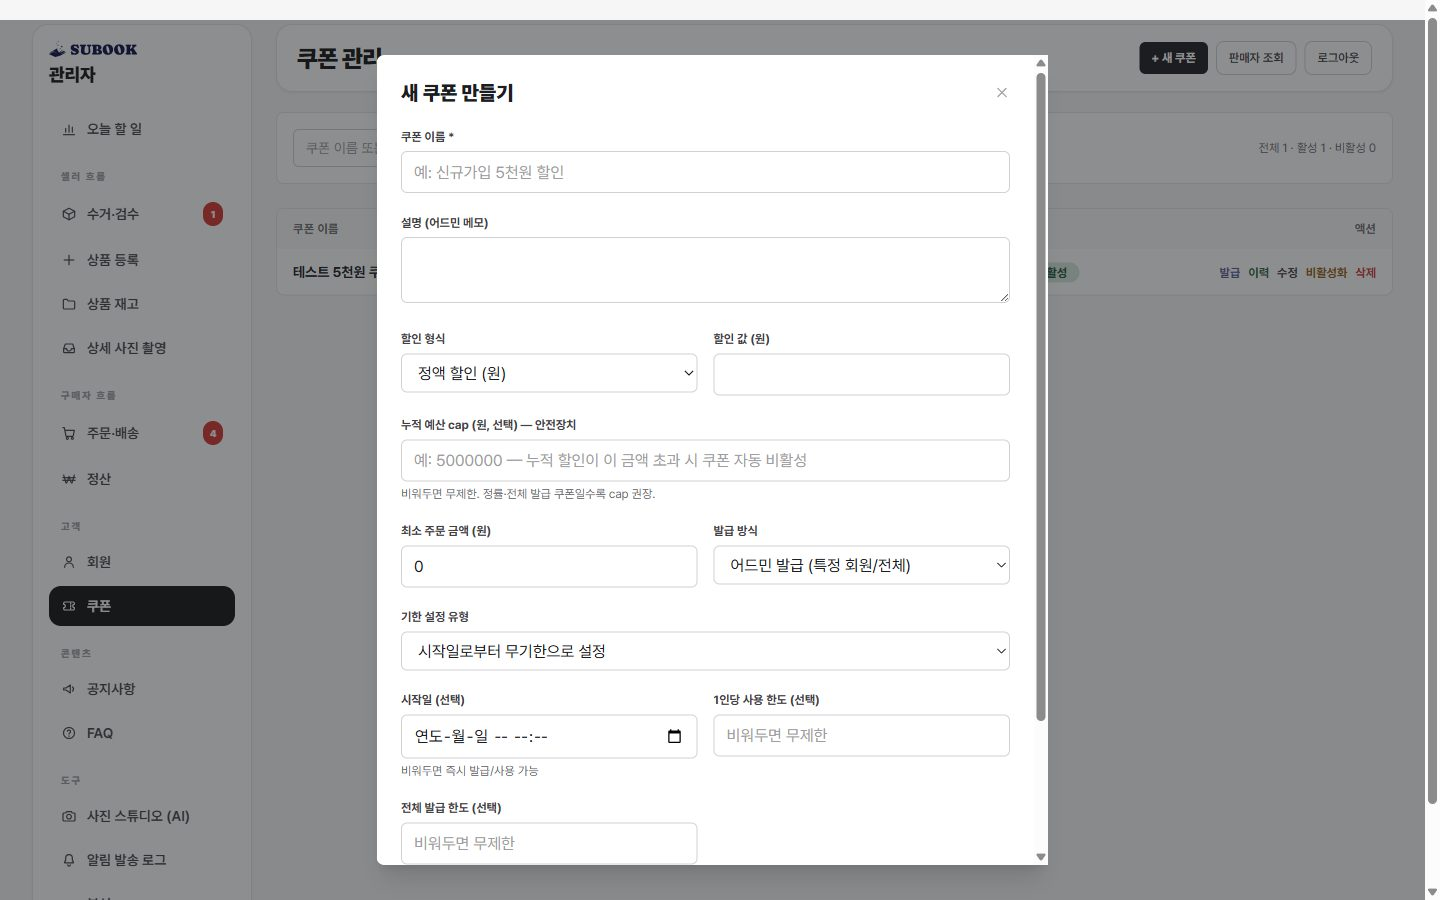
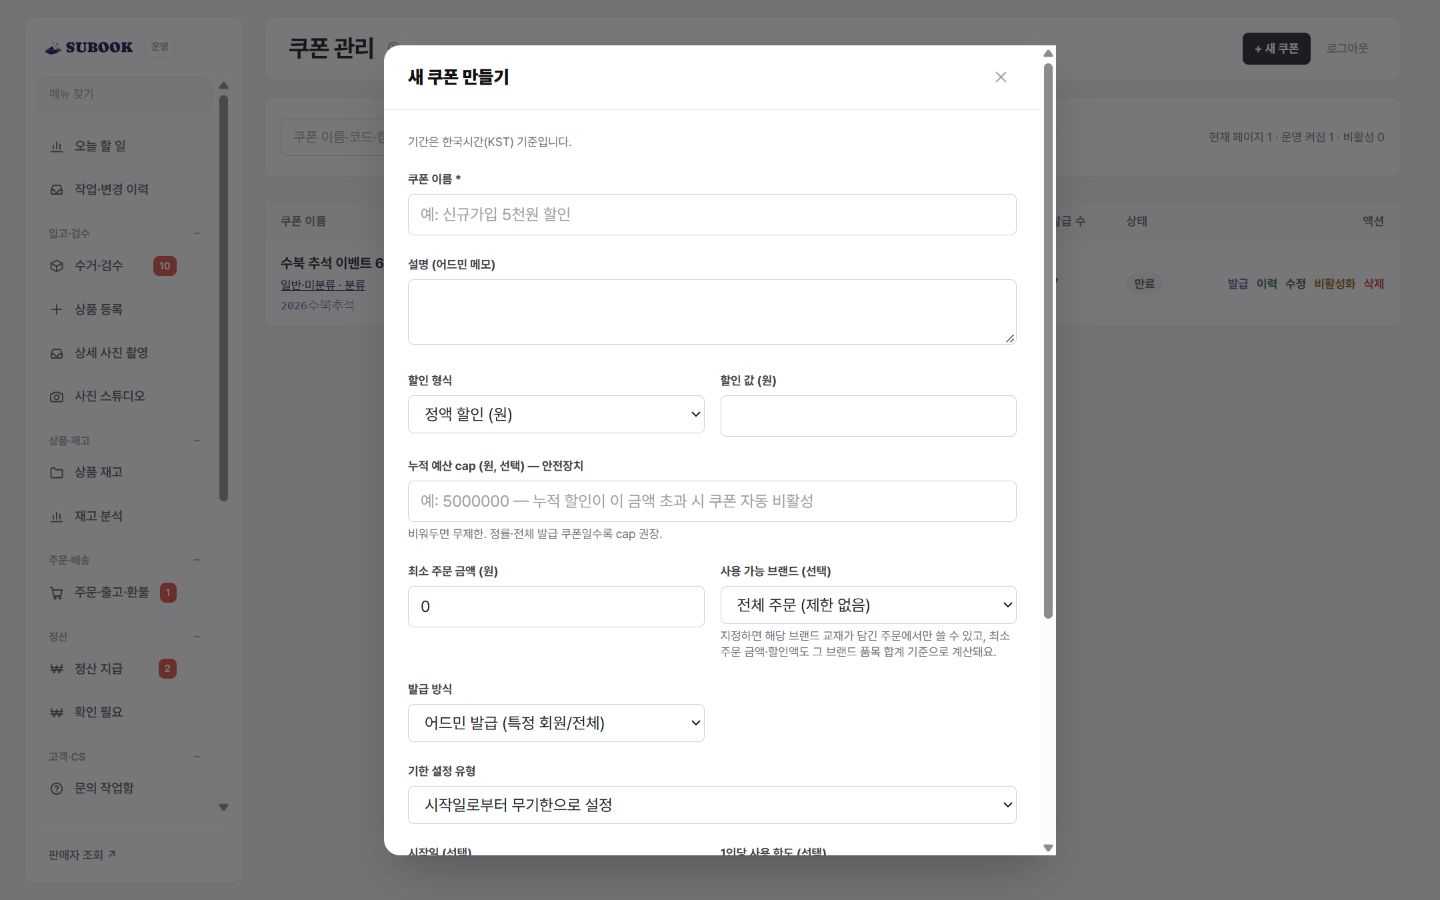
docs: 어드민 개편 가이드와 검증 기록 갱신

diff --git a/apps/admin-web/src/lib/adminGuides.js b/apps/admin-web/src/lib/adminGuides.js
@@ -1,5 +1,5 @@
 // 탭별 사용 가이드 콘텐츠 — AdminShell의 ? 버튼이 이 레지스트리를 모듈 키로 조회한다.
-// 스크린샷은 2026-07-28 실제 어드민 화면 캡처 (src/assets/guide/*.jpg).
+// 스크린샷은 실제 어드민 화면 캡처 (2026-10-06 개편 화면 갱신 포함).
 // 화면이 크게 바뀌면 스크린샷도 갈아끼울 것 (파일명 유지하면 코드는 무변경).
 import imgOverview from "../assets/guide/overview.jpg";
 import imgPickups from "../assets/guide/pickups.jpg";
@@ -17,6 +17,12 @@ import imgNotificationLogs from "../assets/guide/notification-logs.jpg";
 import imgAnalytics from "../assets/guide/analytics.jpg";
 
 export const adminGuides = {
+  cs: { title: "문의 작업함", intro: "문의마다 담당자·상태·기한과 응대 내용을 기록합니다.", sections: [{ heading: "문의 접수", body: ["주문이나 수거 상세의 문의 기록을 누르면 해당 ID가 연결된 새 문의를 만들 수 있습니다.", "완료된 문의는 상태를 완료로 변경합니다. 다른 운영자가 먼저 저장한 경우 새로 조회한 뒤 수정하세요."] }] },
+  "work-history": { title: "작업·변경 이력", intro: "대량 작업 결과와 객체별 변경 항목을 확인합니다.", sections: [{ heading: "작업 결과", body: ["사진 변환·CJ 송장·CSV 송장 작업의 대상과 실패 사유가 보존됩니다.", "진행 중 상태가 오래 유지되면 실제 대상 상태를 먼저 확인하세요. 송장은 기존 주문 상세에서 재출력합니다.", "변경 이력은 기존 교재·상품 이력과 개편 후 주문·수거·쿠폰·공지·FAQ·문의의 변경 항목을 합쳐 보여줍니다."] }] },
+  "inventory-insights": { title: "재고 분석", intro: "오래된 가용 재고와 판매 속도를 확인합니다.", sections: [{ heading: "집계 기준", body: ["입고 등록일부터 30·90·180일 이상 지난 교재를 조회합니다. 주문 배정·재판매 보류 교재는 제외합니다.", "재고 금액은 현재 판매가 합계입니다. 최근 30일 판매가 없는 교재는 가격·사진·노출을 검토하세요."] }] },
+  "settlement-exceptions": { title: "기지급 환불 확인", intro: "지급 완료한 원장과 이후 환불 신청·처리 내역을 연결합니다.", sections: [{ heading: "확인 방법", body: ["관련 주문을 열어 실제 환불·회수 상태를 확인하고 문의 기록에 대응 내용을 남깁니다.", "이 목록은 확인용입니다. 원장 금액이나 지급 상태를 자동으로 차감·변경하지 않습니다."] }] },
+  "home-editor": { title: "홈 편집", intro: "홈에 저장된 테마·추천 교재·배너·팝업 구성을 함께 확인합니다.", sections: [{ heading: "미리보기와 편집", body: ["모바일/PC와 한국시간을 선택해 해당 시각의 노출 구성을 봅니다.", "상단의 테마관·추천 교재·배너·팝업 탭에서 기존 방식으로 편집합니다.", "상태 확인 목록의 교재와 동시에 노출되는 팝업을 검토하세요. 실제 고객 화면의 방문·구매 지표에는 영향을 주지 않는 구성 미리보기입니다."] }] },
+  "event-subscriptions": { title: "행사 신청", intro: "행사를 선택해 신청 명단을 조회하고 추출합니다.", sections: [{ heading: "명단 범위", body: ["실제 신청이 존재하는 행사 키가 선택 목록에 나타납니다.", "CSV에는 현재 조회한 명단만 포함되며 전체 수보다 적게 불러온 경우 화면에 범위를 표시합니다. 발송은 별도입니다."] }] },
   'meta-ads': {
     title: '메타 광고 운영',
     intro: 'Meta 광고의 성과를 보면서 예산·대상·소재를 관리합니다.',
@@ -33,7 +39,7 @@ export const adminGuides = {
     intro: "실제 결제 실적과 방문·광고 성과를 함께 확인합니다.",
     sections: [
       { heading: "기간 선택", body: ["기본은 오늘을 포함한 최근 7일입니다. 날짜를 직접 지정하거나 일별 상세의 날짜를 눌러 하루 성과를 볼 수 있습니다.", "각 카드의 증감은 직전 동일 길이 기간과 비교합니다. 오늘을 포함하면 집계 중인 오늘과 이전 날짜의 하루 전체를 비교합니다."] },
-      { heading: "숫자의 기준", body: ["매출과 주문은 실제 결제가 확인된 주문 DB 기준입니다. 순매출은 그 결제분의 현재 누적 환불액을 차감합니다.", "GA4는 무통장 주문을 입금 전에 구매로 기록합니다. 방문·퍼널 지표와 실제 결제 실적은 다를 수 있습니다.", "Meta 기여 실적과 주문 DB에서 확인된 Meta 유입은 귀속 기준이 다릅니다. 유입 보존은 2026-09-12부터 시작했습니다."] },
+      { heading: "숫자의 기준", body: ["매출과 주문은 실제 결제가 확인된 주문 DB 기준입니다. 순매출은 그 결제분의 현재 누적 환불액을 차감합니다.", "GA4 구매는 결제 확인 시점에 서버 큐로 전송합니다. 입금 전 주문은 구매 실적에 포함하지 않으며, 광고 차단·동의·전송 지연 때문에 방문·퍼널과 DB 실적에는 차이가 날 수 있습니다.", "Meta 기여 실적과 주문 DB에서 확인된 Meta 유입은 귀속 기준이 다릅니다. 유입 보존은 2026-09-12부터 시작했습니다."] },
       { heading: "광고와 연결 상태", body: ["캠페인 이름을 누르면 광고세트, 광고세트 이름을 누르면 개별 광고를 볼 수 있습니다.", "연동이 준비되지 않았거나 분모가 0인 지표는 —로 표시됩니다. 외부 지표는 최대 15분 캐시하며 각 출처의 데이터 처리 지연이 있을 수 있습니다."] },
       { heading: "엑셀 다운로드", body: ["기간 조회 후 상단의 엑셀 다운로드를 누르면 성과 요약·일별 상세·수수료 산출·구매 흐름·Meta 광고·집계 기준을 6개 시트로 내려받습니다.", "일별 상세는 조회 기간 전체를 포함하고, 광고 상세는 현재 선택한 캠페인·광고세트 범위를 따릅니다. 조회하지 못한 지표는 빈칸으로 남으며 집계 기준 시트에 조회 상태를 기록합니다."] },
     ],
@@ -41,24 +47,24 @@ export const adminGuides = {
   overview: {
     title: "오늘 할 일",
     intro:
-      "관리자에 로그인하면 처음 보이는 홈 화면이에요. 오늘 처리해야 할 일이 무엇인지 한눈에 보여주는 허브라서, 매일 아침 이 화면의 빨간 표시부터 확인하면 됩니다.",
+      "관리자에 로그인하면 처음 보이는 홈 화면이에요. 오늘 처리해야 할 일이 무엇인지 한눈에 보여주는 허브라서, 미처리 환불과 오래 기다리는 업무부터 확인하면 됩니다.",
     sections: [
       {
         heading: "업무 단계 카드 확인",
         body: [
           "가운데 줄의 카드들은 수북의 하루 업무 흐름 순서예요: 입금확인 → 발송 처리 → 수거 신청 → 검수·등록 → 정산 지급.",
-          "처리할 건이 있는 카드는 빨간 테두리와 'N건 대기'로 표시돼요. 카드를 클릭하면 해당 작업 화면으로 바로 이동합니다.",
+          "각 카드에는 처리 단위와 건수가 표시됩니다. 카드를 클릭하면 해당 작업 화면으로 바로 이동합니다.",
           "왼쪽 메뉴의 빨간 숫자 배지도 같은 의미예요 (예: 주문·배송 4 = 처리 대기 4건).",
         ],
         image: imgOverview,
-        imageCaption: "발송 처리 4건·수거 신청 1건이 대기 중인 상태의 홈 화면",
+        imageCaption: "개편된 오늘 할 일 화면",
       },
       {
-        heading: "지금 처리할 수거 건",
+        heading: "먼저 확인할 업무",
         body: [
-          "아래 목록에는 당장 액션이 필요한 수거 신청이 떠요. 비어 있으면 수거 쪽은 처리할 일이 없다는 뜻입니다.",
+          "환불 신청, 지연 출고·수거·검수, 미등록 계좌, 최근 알림 실패, 문의 기한을 확인합니다. 목록이 비어 있어도 위 단계 카드의 전체 대기 건수를 함께 확인하세요.",
         ],
-        tips: ["헤더에 '알림 발송 실패 N건' 노란 경고가 뜨면 꼭 눌러서 확인하세요 — 고객에게 알림톡이 안 나간 거예요."],
+        tips: ["건수 갱신 실패는 0건과 다릅니다. 오류가 표시되면 다시 조회를 눌러 확인하세요."],
       },
     ],
   },
@@ -95,7 +101,7 @@ export const adminGuides = {
   register: {
     title: "상품 등록",
     intro:
-      "검수 끝난 책을 판매 상품으로 만드는 4단계 마법사예요: 고객 선택 → 교재 목록 → 사진 → 등록. 위에서부터 순서대로 채우면 됩니다.",
+      "고객 선택 → 교재 목록 → 사진·등록 순서로 검수한 책을 판매 상품으로 만듭니다. 초안은 수거 건별로 저장되며 다른 창에서 같은 초안을 수정하면 충돌을 알려줍니다.",
     sections: [
       {
         heading: "고객(셀러) 선택",
@@ -111,7 +117,7 @@ export const adminGuides = {
           "교재명을 입력하면 기존 교재 DB에서 자동완성돼요. 새 교재면 상품명에서 브랜드·과목 등을 자동으로 파싱합니다.",
           "기존 교재 선택 후 교재명 옆 '이름 수정'에서 이름을 고칠 수 있습니다. '이름 저장'을 누르면 해당 상품과 연결된 모든 교재에 즉시 반영됩니다.",
           "같은 교재 여러 권이면 권수만큼 등록돼요 (1권 = 재고 1개). 일련번호는 시작 번호부터 순차 배정되고, 보관 위치도 함께 기록합니다.",
-          "표지 사진을 올리면 AI가 깔끔한 상품 컷으로 자동 변환해줘요. 마지막 단계에서 '등록'을 누르면 상품이 만들어집니다.",
+          "사진 단계에서 표지를 확인하고 필요한 사진만 AI 변환을 실행합니다. 최종 등록을 누르면 상품과 권 단위 재고가 반영됩니다.",
         ],
         tips: ["할인은 정가(원가) 기준으로 계산돼요 — 정가/정액/정률 중 선택."],
       },
@@ -338,13 +344,13 @@ export const adminGuides = {
 
   reviews: {
     title: "후기 관리",
-    intro: "구매확정 회원이 남긴 통합 후기를 관리하는 화면이에요. 후기는 주문 1건당 1개이며 subook.kr 모든 상품 상세에 공통으로 보여요.",
+    intro: "배송완료 이후 회원이 남긴 통합 후기를 관리하는 화면이에요. 후기는 주문 1건당 1개이며 subook.kr 모든 상품 상세에 공통으로 보여요.",
     sections: [
       {
         heading: "숨기기와 해제",
         body: [
           "욕설·비방, 개인정보 노출, 광고성 후기는 '숨기기'로 사이트에서 즉시 내릴 수 있어요. 사유를 남기면 카드에 기록됩니다.",
-          "숨긴 후기는 '숨김' 필터에서 다시 볼 수 있고, 언제든 해제할 수 있어요. 수정·삭제는 작성자 본인만 마이페이지에서 할 수 있습니다.",
+          "숨긴 후기는 '숨김' 필터에서 다시 볼 수 있고, 언제든 해제할 수 있어요. 작성 완료 후에는 회원이 수정·삭제할 수 없습니다.",
           "닉네임은 사이트에서는 마스킹(앞 2글자)되어 보이지만, 이 화면에서는 닉네임·이름·이메일이 그대로 보여요.",
         ],
       },
@@ -386,16 +392,16 @@ export const adminGuides = {
   },
 
   analytics: {
-    title: "분석",
-    intro: "매출·주문·회원 추이를 보는 통계 화면이에요.",
+    title: "운영 분석",
+    intro: "주문·검수·상품·셀러의 운영 지표를 봅니다.",
     sections: [
       {
         heading: "차트 읽기",
         body: [
-          "기간을 바꿔가며 매출과 주문 수 추이를 확인해요. 상세 수치 분석은 GA4(구글 애널리틱스)와 함께 보면 좋습니다.",
+          "운영 분석은 주문 생성일에 따른 주문 수·검수 처리와 상품·셀러 순위를 확인합니다. 결제일 기준 매출·환불·순매출은 매출·유입·광고 탭을 사용하세요.",
         ],
         image: imgAnalytics,
-        imageCaption: "분석 대시보드",
+        imageCaption: "운영 분석",
       },
     ],
   },

diff --git a/docs/ADMIN_OPERATIONS_REDESIGN.md b/docs/ADMIN_OPERATIONS_REDESIGN.md
@@ -1,0 +1,59 @@
+# 어드민 운영 화면 개편 — 2026-10-06
+
+운영 업무를 8개 메뉴군으로 정리하고, 조회 조건을 유지하면서 실제 처리 대상으로 이동하도록 개편했다. 기존 수거·상품 등록·환불·정산 정책과 URL은 유지한다.
+
+## 메뉴와 새 기능
+
+| 위치 | 반영 내용 |
+| --- | --- |
+| 오늘 할 일 | 업무 단위별 대기 건수, 미처리 환불·지연 출고/수거/검수·계좌 미등록·알림 실패·문의 기한 목록과 대상 링크 |
+| 작업·변경 이력 | 사진 변환·CJ 송장·CSV 송장·엑셀 작업의 대상/진행/실패 결과, 기존 상품/교재 이력과 신규 주문/수거/콘텐츠 변경 항목 검색 |
+| 입고·검수 | 수거/검수 URL 조건, 개인 저장 보기, 상세에서 원래 검수 목록 복귀, 요청/검수 상세 타임라인 |
+| 상품·재고 | 390px 모바일 카드, 상세 주소, 개인 저장 보기, 오래된 재고·현재 판매가 합계·최근 30일 판매와 재고 소진 예상 |
+| 주문·배송 | 출고 대기/환불 신청/회수 진행/재고 보류 보기, 위치·일련번호순 피킹 및 포장 체크, 모바일 카드, 상세 타임라인 |
+| 정산 | 기존 셀러·계좌 묶음 유지, 지급 완료 원장에 연결된 환불 신청/처리 확인 목록 |
+| 고객·CS | 문의별 담당자·우선순위·처리 기한·상태·메모, 비회원 연락처와 주문/수거 ID 연결, 회원 교차 링크의 ID 기준 조회 |
+| 홈 편집 | 기존 테마/추천/배너 편집 탭, PC·모바일 구성 미리보기, KST 시각별 배너·팝업과 연결 상품 상태 확인 |
+| 쿠폰·행사 | KST 날짜 왕복, 만료/예정/발급 소진 표시, 캠페인/CS/테스트 분류, 행사 선택 및 조회 명단 CSV |
+| 성과 | 매출·유입·광고와 운영 분석 탭 연결, 운영 분석의 중복 매출 표시 정리 및 집계 기준 표시 |
+
+사이드바에서 메뉴 검색·즐겨찾기·그룹 접기가 가능하다. 즐겨찾기와 저장한 보기는 현재 계정의 브라우저에 저장한다. 홈 미리보기는 저장된 구성과 판매 가능 상품 최대 8종을 보여주며 실제 고객 홈을 실행하거나 방문 지표를 발생시키지 않는다.
+
+## 감사 항목 반영
+
+| 감사 ID | 해결 |
+| --- | --- |
+| D01 | 모바일 상품·주문 표를 카드로 전환, 상품 상세 헤더 줄바꿈 개선 |
+| D02 | 검수 상세 returnTo와 활성 메뉴 교정, 목록 스크롤 복귀 |
+| D03 | 주문·상품·회원·수거·쿠폰·알림·행사 목록의 URL 상태와 페이지 보존 |
+| D04 | 공통 업무 건수의 미조회/실패/실제 0건 구분, 이전 성공값 및 재시도 |
+| D05 | 주문 조회 오류를 목록 안에 표시하고 이전 결과·선택 항목 제거 |
+| D06 | 쿠폰 입력/표시는 KST, 저장은 UTC ISO. 기존 쿠폰 날짜의 일괄 보정 없음 |
+| D07 | 쿠폰 편집에 공통 모달 적용, 포커스·Escape·스크롤 잠금 |
+| D08 | 공지·FAQ 편집창 내부 저장 오류 표시와 입력 유지 |
+| D09 | 기본 lint에 admin 포함, test:admin 및 Node 별칭 로더 추가 |
+| D10 | 후기·성과·등록 정책 설명 및 주요 도움말 이미지 갱신 |
+| R01 | 회원·상품 상세 요청 순서 가드 |
+| R02 | 수거별 초안 키, 다른 탭 쓰기/삭제 충돌 방지, 마지막 입력 저장, URL 수거 변경 시 폼 격리 |
+| R03 | 회원/주문/수거의 이름 검색 대신 ID 연결 |
+| R04 | 알림 날짜 조회의 양쪽 경계를 KST 자정으로 통일 |
+
+## 검증
+
+- 전체 프런트 lint, admin 테스트 149개, public 테스트 295개, 두 웹앱 build 통과.
+- 신규 DB 회귀 테스트 8개: 비관리자 접근 차단, 페이지 이전 필터, KST 경계, CS 동시 수정, 쿠폰 분류, 피킹/포장 제약, 작업 기록 권한, 정산 금액 불변.
+- 기존 결제·환불·수거 관련 테스트 53개 통과.
+- 로그인한 실제 데이터로 데스크톱 1440px와 모바일 390px 조회 확인. 환불 필터 새로고침 유지, 회원 ID 링크, 검수 상세 복귀, 쿠폰/문의 모달 Escape, 모바일 상품 수정 접근과 닫은 뒤 위치 보존 확인.
+- 운영 환불·정산 지급·송장 발급·알림 발송은 검증용으로 실행하지 않았다. 피킹/포장 쓰기는 격리 DB 테스트로 검증했다.
+
+## 기록 범위와 복구
+
+신규 변경 이력은 배포 이후 기록된다. 이전 상품/교재 이력은 합쳐 조회하지만, 과거 주문/콘텐츠 변경 내용을 복원하지 않는다. 개인정보 값은 이력에 복제하지 않고 변경 필드명만 기록한다.
+
+대량 작업 이력 저장 실패가 실제 작업 실패를 뜻하지는 않는다. 중단·오래된 진행 중 작업은 주문별 송장이나 상품 결과를 확인한 뒤 기존 화면에서 후속 처리한다. 자동 재실행 기능은 제공하지 않는다.
+
+행사 CSV는 현재 조회한 명단 범위이며, 서버 제한으로 전체보다 적으면 그 수를 표시한다. 재고 분석은 현재 가용 재고와 최근 판매 기준이며 과거 반복 품절 횟수는 집계하지 않는다.
+
+DB 변경은 신규 운영 테이블·관리자 전용 RPC·기록 트리거 추가다. 기존 주문/수거 목록 RPC와 금융 처리 RPC는 보존했다. 문제 시 이전 어드민 버전으로 복귀할 수 있으며 신규 기록 테이블은 보존한다. 스키마 삭제를 복구 절차로 사용하지 않는다.
+
+디자인 참고: [Linear의 작업 보기](https://linear.app/docs/custom-views), [Shopify의 목록·저장 보기](https://help.shopify.com/en/manual/shopify-admin/productivity-tools/searching-filtering-views). DB 보안과 시간 처리 참고: [Supabase RLS](https://supabase.com/docs/guides/database/postgres/row-level-security), [PostgreSQL 날짜·시간](https://www.postgresql.org/docs/current/datatype-datetime.html).
